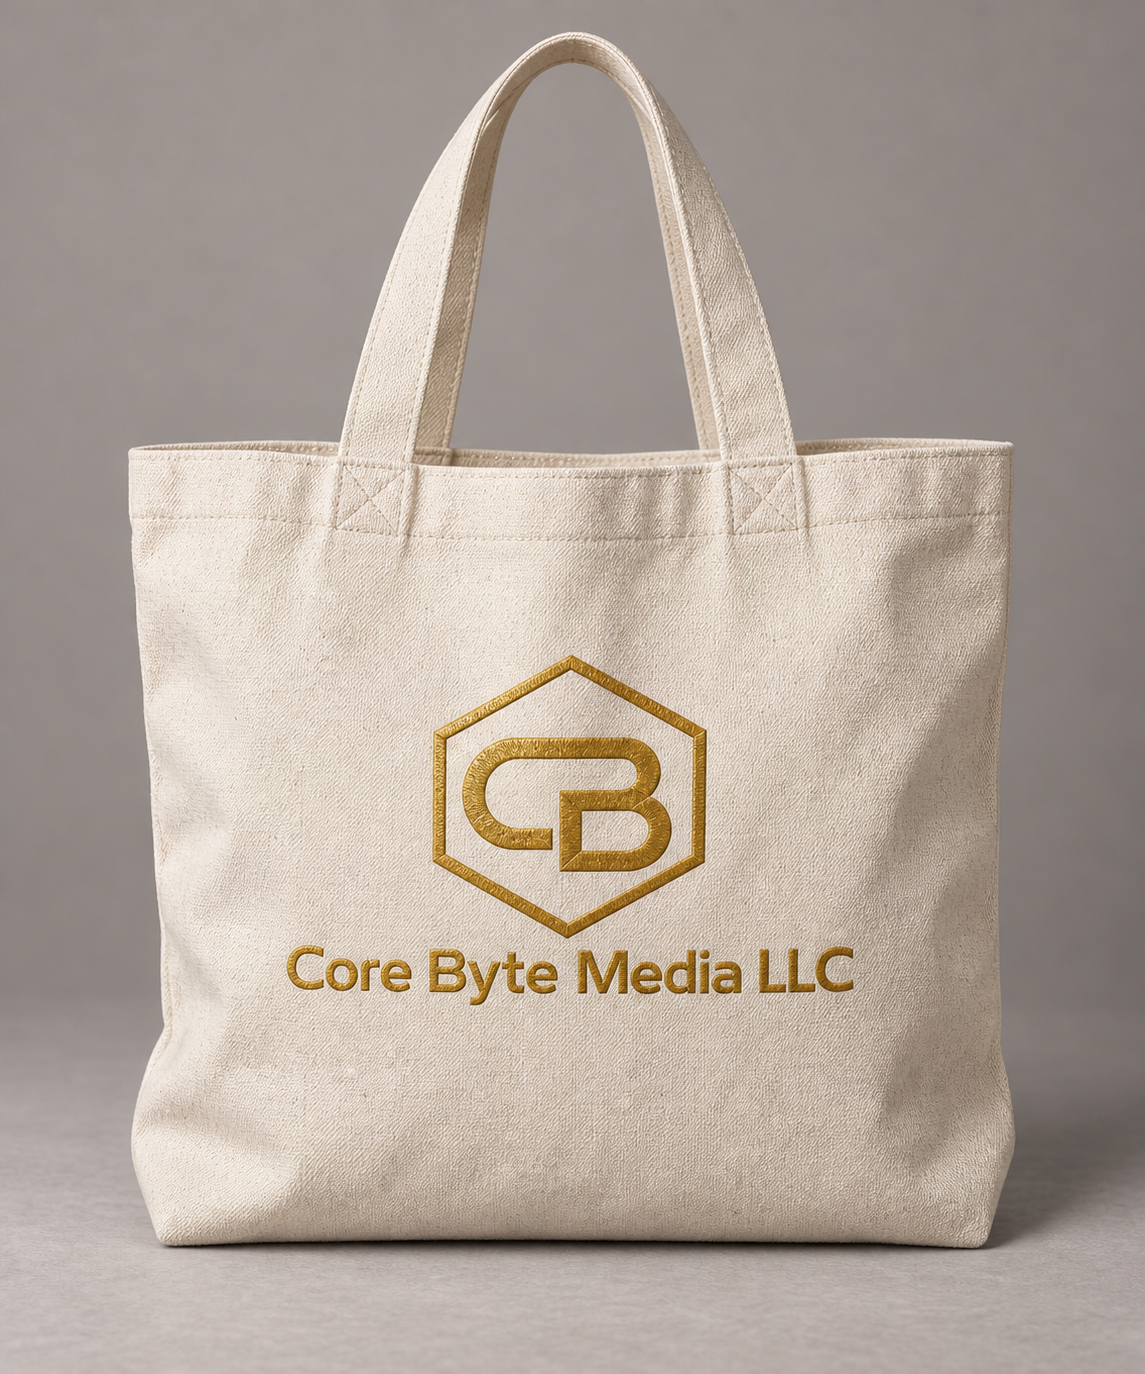
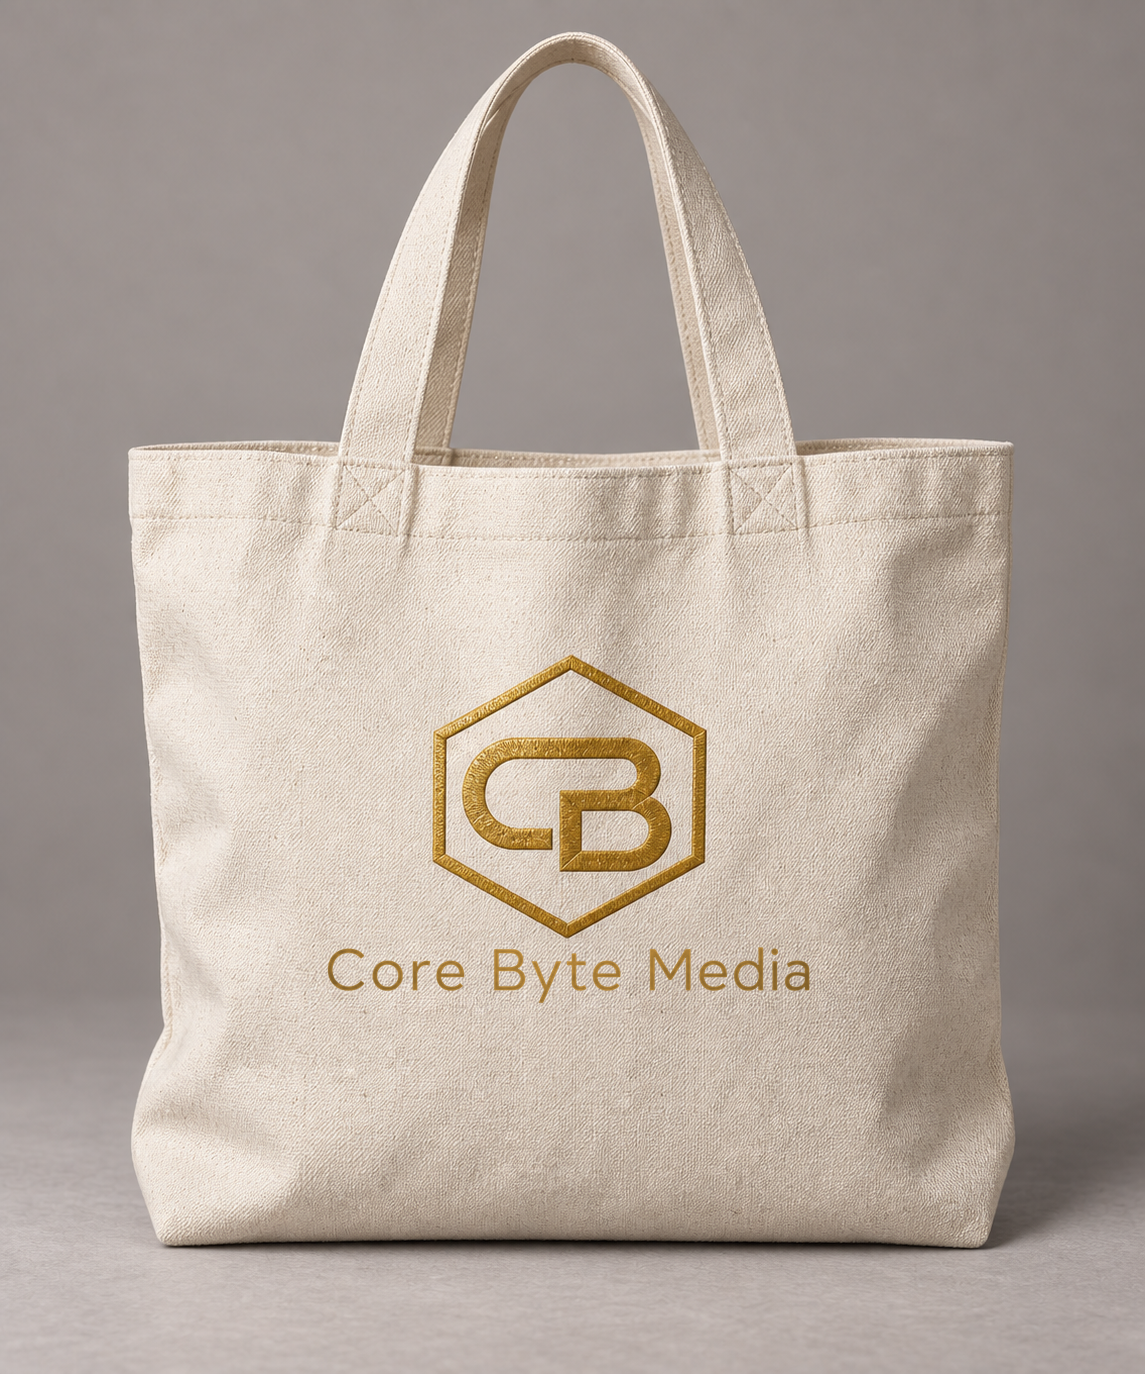
fixes done

Changed region(s): [[0.2445, 0.6725, 0.7642, 0.7336]]

diff --git a/app/products/[slug]/page.js b/app/products/[slug]/page.js
@@ -31,12 +31,12 @@ export async function generateMetadata({ params }) {
   const price = product.salePrice ?? product.price;
 
   return {
-    title: product.name,
+    title: { absolute: `${product.name} | Core Byte Media` },
     description: product.description,
     alternates: { canonical: `/products/${product.slug}` },
     openGraph: {
       type: 'website',
-      title: `${product.name} | Core Byte Media LLC`,
+      title: `${product.name} | Core Byte Media`,
       description: product.description,
       url: `/products/${product.slug}`,
       images: [{ url: product.images[0].src, alt: product.images[0].alt }],
@@ -72,7 +72,7 @@ export default async function ProductPage({ params }) {
     sku: product.sku,
     category: categoryName,
     image: product.images.map((image) => `${SITE_URL}${image.src}`),
-    brand: { '@type': 'Brand', name: 'Core Byte Media LLC' },
+    brand: { '@type': 'Brand', name: 'Core Byte Media' },
     // Google rejects an AggregateRating with no reviews behind it.
     ...(product.reviews > 0 && {
       aggregateRating: {

diff --git a/app/categories/page.js b/app/categories/page.js
@@ -13,7 +13,7 @@ import { pageMetadata } from '@/lib/seo';
 export const metadata = pageMetadata({
   title: 'Product Categories',
   description:
-    'Explore Core Byte Media LLC product categories — t-shirts, oversized tees, hoodies, sweatshirts, polo shirts, caps, mugs, tote bags and fully custom products.',
+    'Explore Core Byte Media product categories — t-shirts, oversized tees, hoodies, sweatshirts, polo shirts, caps, mugs, tote bags and fully custom products.',
   path: '/categories',
 });
 
@@ -49,7 +49,7 @@ export default function CategoriesPage() {
                 >
                   <Image
                     src={category.image}
-                    alt={`${category.name} — Core Byte Media LLC`}
+                    alt={`${category.name} — Core Byte Media`}
                     fill
                     sizes="(max-width: 640px) 100vw, 288px"
                     priority={index < 2}

diff --git a/app/products/page.js b/app/products/page.js
@@ -9,7 +9,7 @@ import { pageMetadata } from '@/lib/seo';
 export const metadata = pageMetadata({
   title: 'All Products',
   description:
-    'Browse the full Core Byte Media LLC catalogue — t-shirts, oversized tees, hoodies, sweatshirts, polos, caps, mugs and tote bags. Filter by category, price and availability.',
+    'Browse the full Core Byte Media catalogue — t-shirts, oversized tees, hoodies, sweatshirts, polos, caps, mugs and tote bags. Filter by category, price and availability.',
   path: '/products',
 });
 

diff --git a/data/site.js b/data/site.js
@@ -32,13 +32,13 @@ export const BRAND = {
  * To swap the artwork: replace the file in `brand/` and run `npm run logo`.
  */
 export const LOGO = {
-  full: '/logo/core-byte-media-logo.png',
-  fullWidth: 1022,
-  fullHeight: 677,
-  mark: '/logo/core-byte-media-mark.png',
-  markWidth: 471,
-  markHeight: 539,
-  alt: 'Core Byte Media LLC',
+  full: '/logo/logo-full.png',
+  fullWidth: 960,
+  fullHeight: 747,
+  mark: '/logo/logo-mark.png',
+  markWidth: 512,
+  markHeight: 512,
+  alt: 'Core Byte Media',
 };
 
 /**

diff --git a/components/CategoryCard.js b/components/CategoryCard.js
@@ -16,7 +16,7 @@ export default function CategoryCard({ category, priority = false, size = 'md' }
       <div className={`relative overflow-hidden bg-obsidian ${tall ? 'aspect-4/5' : 'aspect-square'}`}>
         <Image
           src={category.image}
-          alt={`${category.name} — Core Byte Media LLC`}
+          alt={`${category.name} — Core Byte Media`}
           fill
           sizes="(max-width: 640px) 50vw, (max-width: 1024px) 33vw, 25vw"
           priority={priority}

diff --git a/app/search/page.js b/app/search/page.js
@@ -8,7 +8,7 @@ import { pageMetadata } from '@/lib/seo';
 export const metadata = pageMetadata({
   title: 'Search',
   description:
-    'Search the Core Byte Media LLC catalogue by product name, category, description or tag.',
+    'Search the Core Byte Media catalogue by product name, category, description or tag.',
   path: '/search',
   noindex: true,
 });

diff --git a/data/products.js b/data/products.js
@@ -46,7 +46,7 @@ const PRODUCT_PHOTOS = {
 function build(product) {
   const { colorKeys } = product;
   const photo = PRODUCT_PHOTOS[product.category] || PRODUCT_PHOTOS['t-shirts'];
-  const alt = `${product.name} with the Core Byte Media LLC logo`;
+  const alt = `${product.name} with the Core Byte Media logo`;
 
   const images = [{ src: photo, alt }];
 

diff --git a/README.md b/README.md
@@ -30,8 +30,8 @@ stretched:
 
 | Generated | Size | Used by |
 | --- | --- | --- |
-| `public/logo/core-byte-media-logo.png` | 1022×677 | Footer, order confirmation |
-| `public/logo/core-byte-media-mark.png` | 471×539 | Header, loader, 404 |
+| `public/logo/logo-full.png` | 960×747 | Footer, order confirmation |
+| `public/logo/logo-mark.png` | 512×512 | Header, loader, 404 |
 | `app/icon.png` | 512×512 | Favicon |
 | `app/apple-icon.png` | 180×180 | iOS home screen |
 | `app/opengraph-image.png` / `twitter-image.png` | 1200×630 | Social share card |
